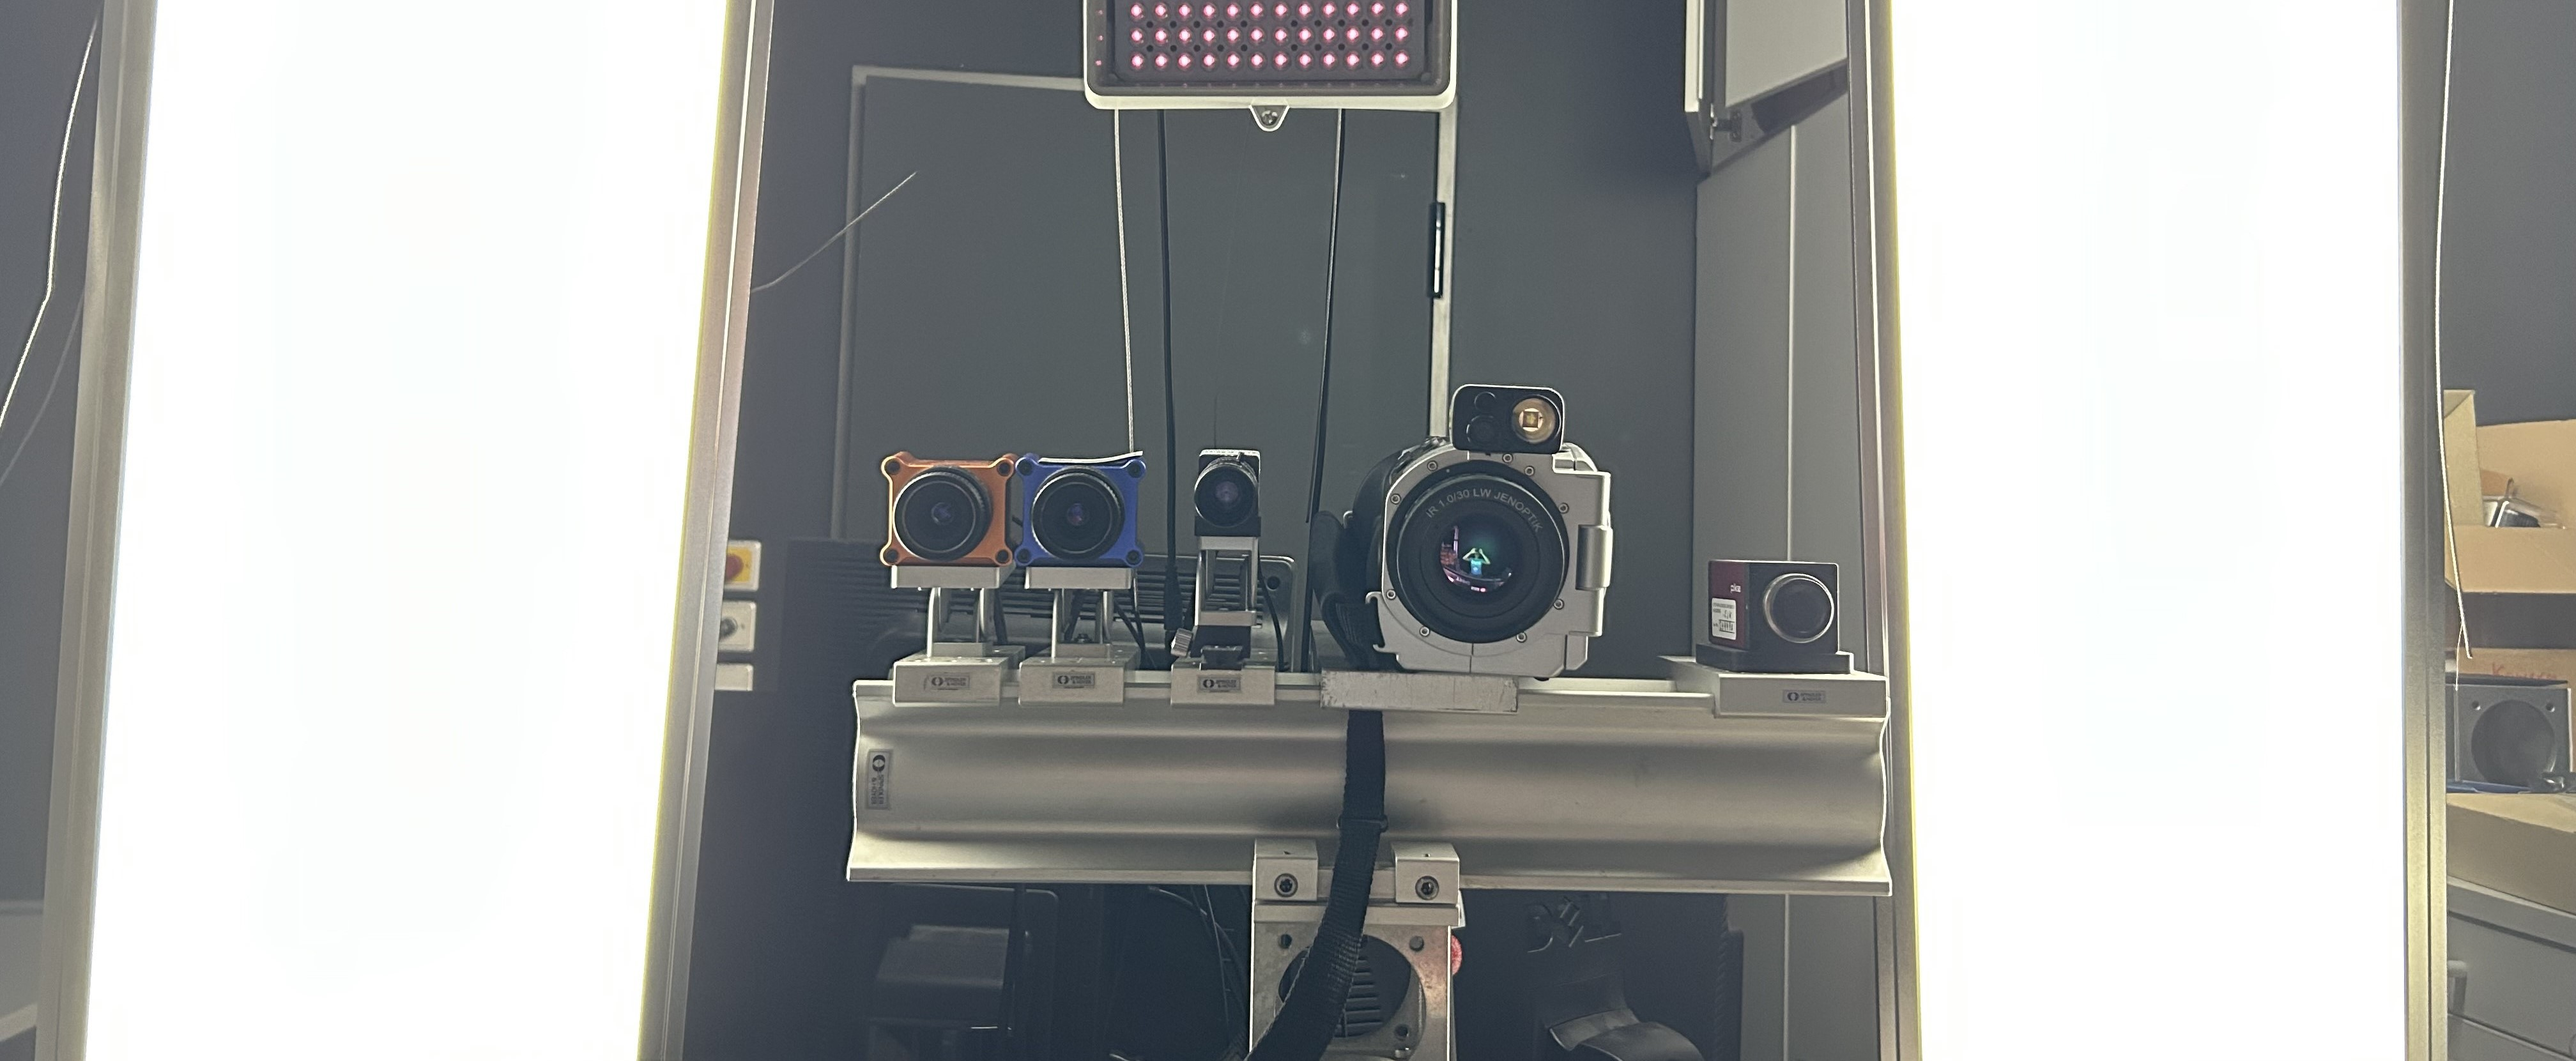
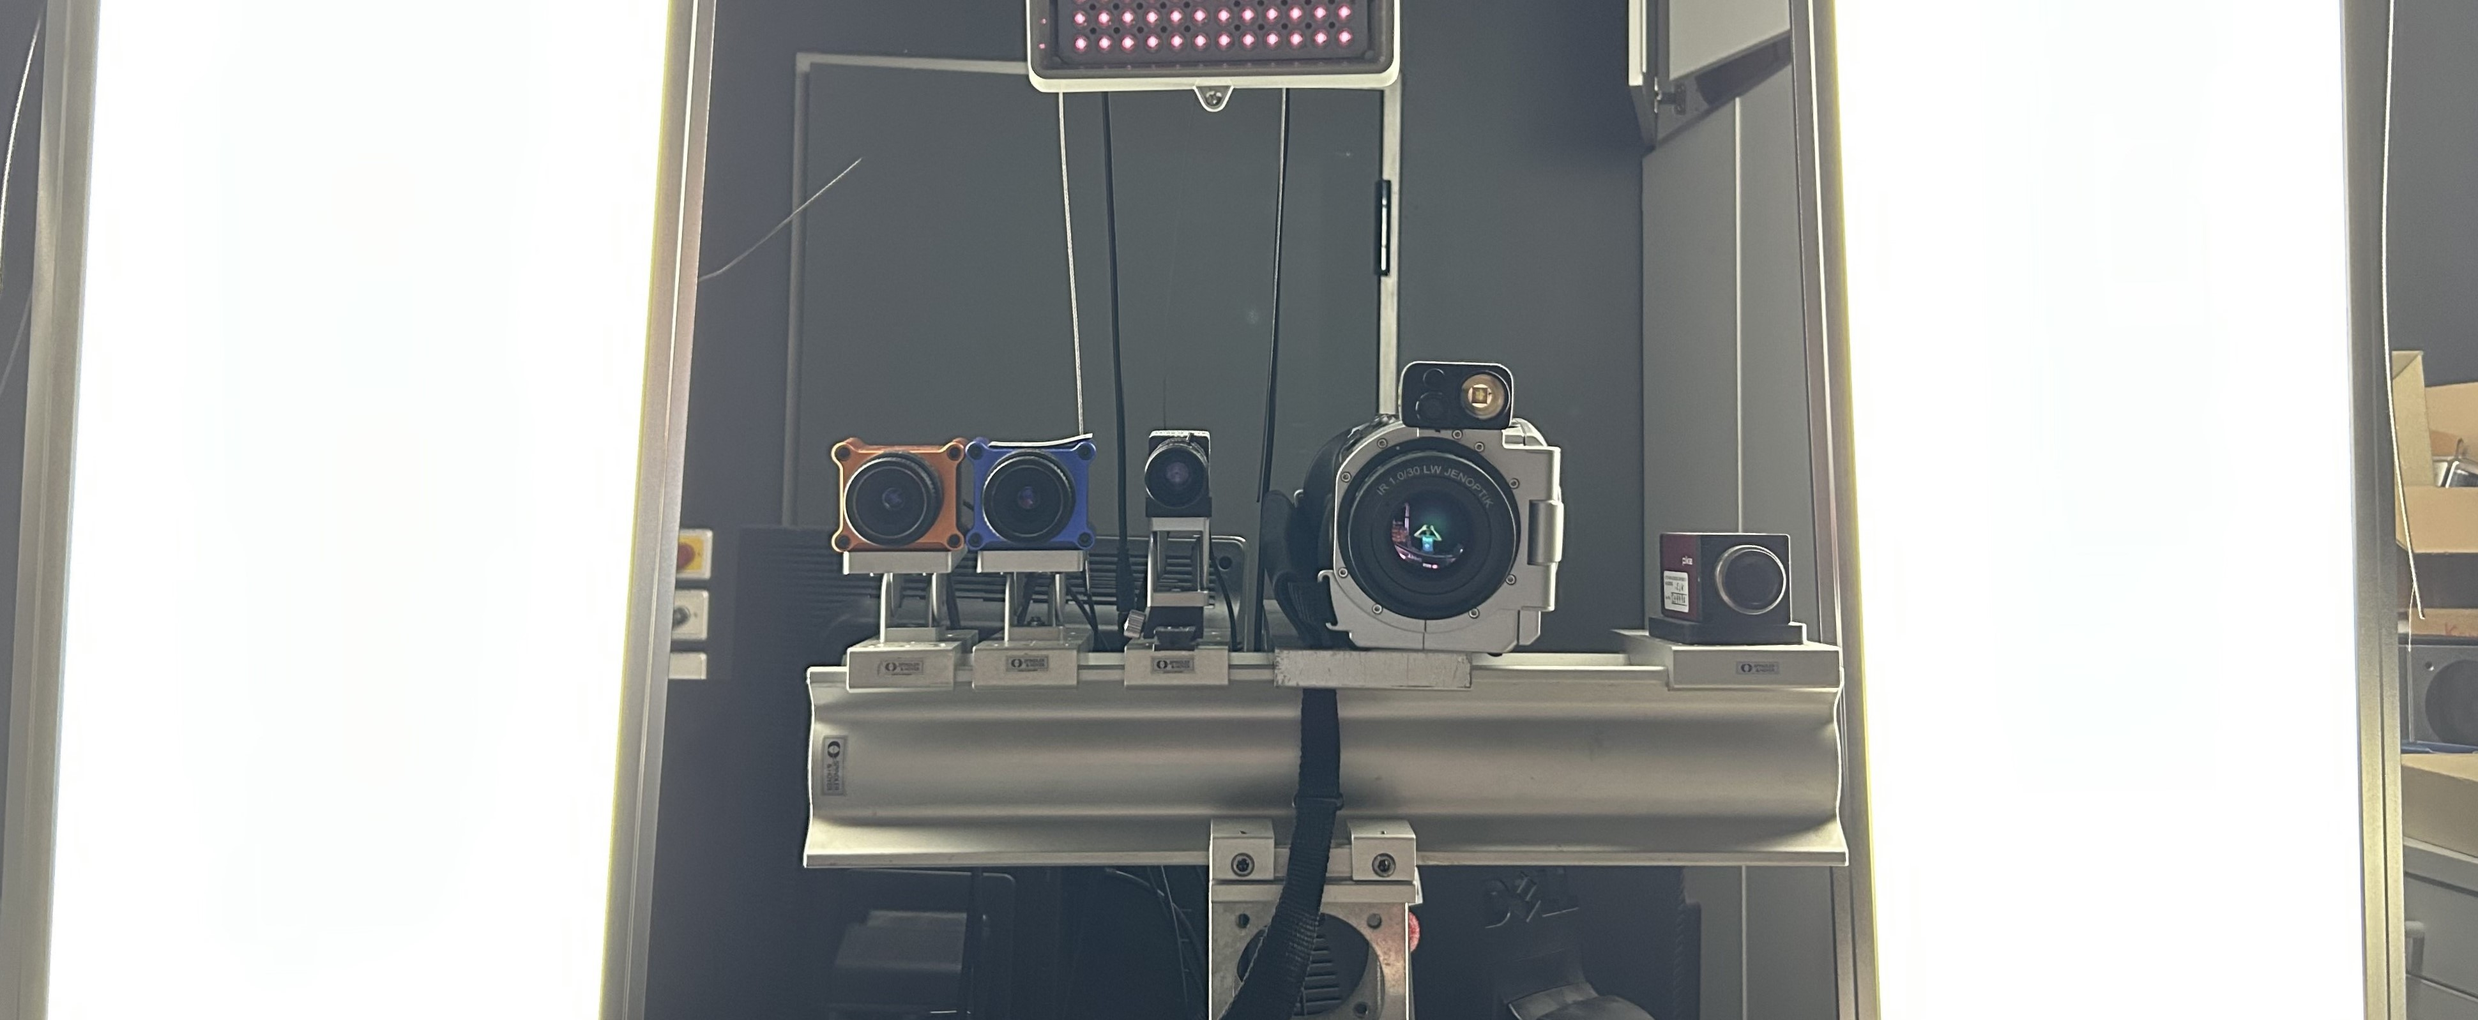
update home.md

Changed region(s): [[0.2183, 0.0, 0.7796, 1.0], [0.9044, 0.0, 1.0, 1.0], [0.0, 0.0, 0.0624, 1.0]]

diff --git a/pages/home.md b/pages/home.md
@@ -5,7 +5,7 @@ title: VITAL SIGNS ESTIMATION
 subtitle: DFG research project
 
 description: "Development and systematic validation of a system for contactless, camera-based measurement of heart rate (variability)."
-background: /assets/theme/images/IMG_9989.jpg
+background: /assets/theme/images/IMG_9993.jpg
 permalink: /
 ---
 # Deception Detection In virtual sales meetings
